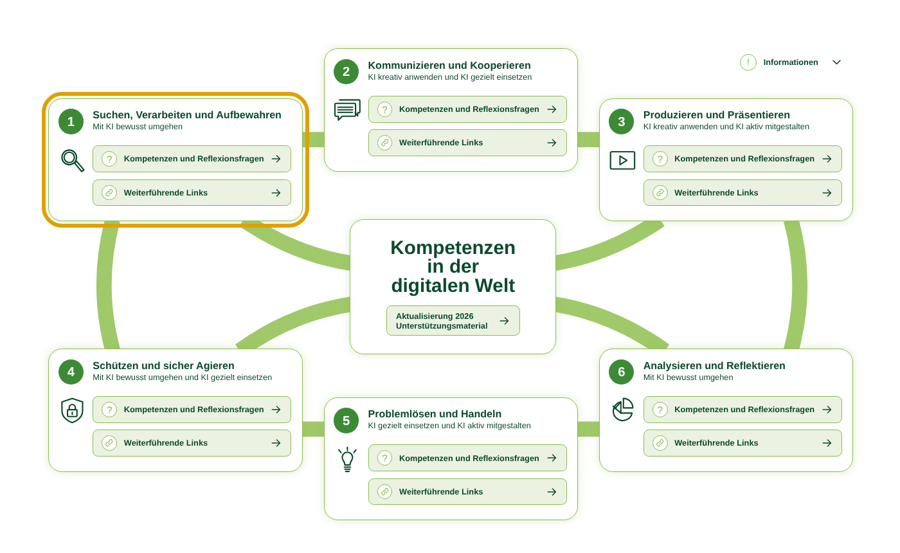
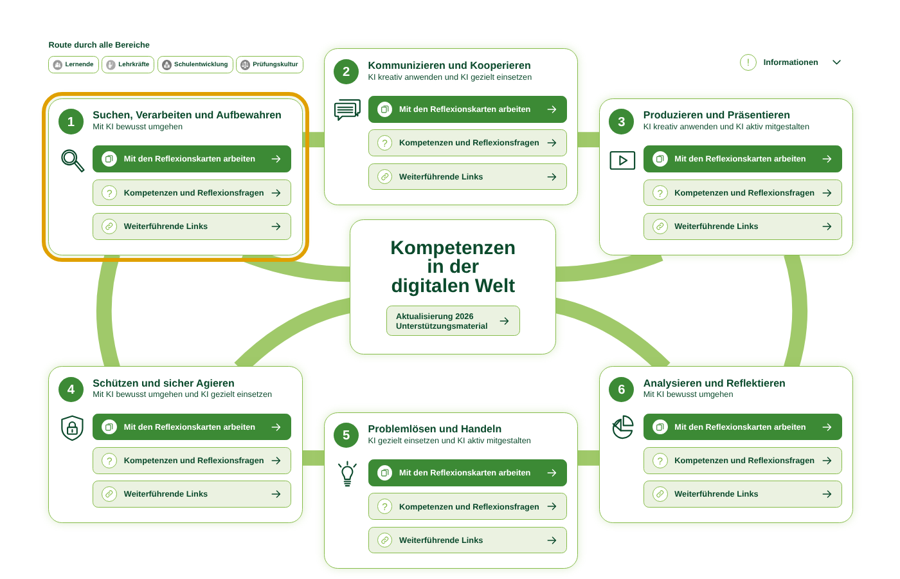
Inseln führen direkt in ihre Bereichs-App, Routen in die Routen-Apps
- dritter Button je Insel „Mit den Reflexionskarten arbeiten“
- Route starten → Routen-App, „Überblick lesen“ → route.html
- Anleitung um Routen ergänzt, Bilder aktualisiert

Claude-Session: https://claude.ai/code/session_012zyzsmAj4NRycghpwKmJHP

Changed region(s): [[0.0622, 0.0615, 0.9644, 0.9837], [0.0311, 0.0615, 0.3733, 0.4919], [0.8089, 0.0922, 0.9333, 0.123]]

diff --git a/index.html b/index.html
@@ -12,20 +12,21 @@
 <p class="wisch-hinweis">Tipp: Die Landkarte lässt sich seitlich verschieben.</p>
 <div class="karte-buehne">
 <div class="karte">
-  <svg class="stege" viewBox="0 0 2300 1360" aria-hidden="true">
+  <svg class="stege" viewBox="0 0 2300 1500" aria-hidden="true">
     <g class="ring">
-      <path d="M760 338H830M1480 338H1550M760 1095H830M1480 1095H1550"/>
-      <path d="M268 548Q222 718 268 890"/>
-      <path d="M2042 548Q2088 718 2042 890"/>
+      <path d="M760 338H830M1480 338H1550M760 1170H830M1480 1170H1550"/>
+      <path d="M268 636Q222 785 268 935"/>
+      <path d="M2042 636Q2088 785 2042 935"/>
     </g>
-    <path d="M610 548Q745 640 895 662"/>
-    <path d="M1700 548Q1565 640 1420 662"/>
-    <path d="M600 890Q735 792 895 768"/>
-    <path d="M1712 890Q1575 792 1420 768"/>
+    <path d="M610 636Q745 690 895 690"/>
+    <path d="M1700 636Q1565 690 1420 690"/>
+    <path d="M600 935Q735 800 895 770"/>
+    <path d="M1712 935Q1575 800 1420 770"/>
   </svg>
   <nav class="routen" aria-label="Routen durch alle Kompetenzbereiche">
     <p class="routen-kopf"><span class="routen-titel">Route durch alle Bereiche</span>
-      <a class="routen-start" href="route.html" hidden>Route starten<svg class="pfeil" viewBox="0 0 32 32" aria-hidden="true"><path d="M4 16h22M17 7l9 9-9 9" fill="none" stroke="currentColor" stroke-width="2.6" stroke-linecap="round" stroke-linejoin="round"/></svg></a></p>
+      <a class="routen-start" href="https://ingerfeldundlaube.github.io/KI-Kompetenzen/" hidden>Route starten<svg class="pfeil" viewBox="0 0 32 32" aria-hidden="true"><path d="M4 16h22M17 7l9 9-9 9" fill="none" stroke="currentColor" stroke-width="2.6" stroke-linecap="round" stroke-linejoin="round"/></svg></a>
+      <a class="routen-lesen" href="route.html" hidden>Überblick lesen</a></p>
     <div class="routen-knoepfe">
       <button type="button" data-route="lernende" data-farbe="#0565bd" data-name="Lernende" aria-pressed="false"><img src="bilder/perspektiven/lernende.png" alt="">Lernende</button>
       <button type="button" data-route="lehrkraefte" data-farbe="#f76e0b" data-name="Lehrkräfte" aria-pressed="false"><img src="bilder/perspektiven/lehrkraefte.png" alt="">Lehrkräfte</button>
@@ -48,6 +49,7 @@
     <h2 id="kb1"><span class="nur-screenreader">Kompetenzbereich 1: </span>Suchen, Verarbeiten und Aufbewahren<span class="unterzeile">Mit KI bewusst umgehen</span></h2>
     <span class="symbol"><svg viewBox="0 0 64 64" aria-hidden="true"><g fill="none" stroke="currentColor" stroke-width="3.2" stroke-linecap="round" stroke-linejoin="round"><circle cx="25" cy="25" r="17"/><circle cx="25" cy="25" r="12"/><path d="M37 38l5-4 17 20-5 4z"/></g></svg></span>
     <div class="knoepfe">
+      <a class="knopf knopf-app" href="https://ingerfeldundlaube.github.io/KI-Kompetenzen/kompetenzbereich-1/"><span class="kreis" aria-hidden="true"><svg viewBox="0 0 24 24" aria-hidden="true"><g fill="none" stroke="currentColor" stroke-width="2" stroke-linejoin="round"><rect x="3" y="6" width="13" height="15" rx="2"/><path d="M8 3h11a2 2 0 0 1 2 2v13"/></g></svg></span><span class="beschriftung">Mit den Reflexionskarten arbeiten</span><svg class="pfeil" viewBox="0 0 32 32" aria-hidden="true"><path d="M4 16h22M17 7l9 9-9 9" fill="none" stroke="currentColor" stroke-width="2.6" stroke-linecap="round" stroke-linejoin="round"/></svg></a>
       <a class="knopf" href="kompetenzbereich-1.html"><span class="kreis" aria-hidden="true">?</span><span class="beschriftung">Kompetenzen und Reflexionsfragen</span><svg class="pfeil" viewBox="0 0 32 32" aria-hidden="true"><path d="M4 16h22M17 7l9 9-9 9" fill="none" stroke="currentColor" stroke-width="2.6" stroke-linecap="round" stroke-linejoin="round"/></svg></a>
       <a class="knopf" href="links-1.html"><span class="kreis" aria-hidden="true"><svg viewBox="0 0 24 24" aria-hidden="true"><g fill="none" stroke="currentColor" stroke-width="2" stroke-linecap="round"><path d="M10 14a4.5 4.5 0 0 0 6.4 0l3-3a4.5 4.5 0 0 0-6.4-6.4l-1 1"/><path d="M14 10a4.5 4.5 0 0 0-6.4 0l-3 3a4.5 4.5 0 0 0 6.4 6.4l1-1"/></g></svg></span><span class="beschriftung">Weiterführende Links</span><svg class="pfeil" viewBox="0 0 32 32" aria-hidden="true"><path d="M4 16h22M17 7l9 9-9 9" fill="none" stroke="currentColor" stroke-width="2.6" stroke-linecap="round" stroke-linejoin="round"/></svg></a>
     </div>
@@ -57,6 +59,7 @@
     <h2 id="kb2"><span class="nur-screenreader">Kompetenzbereich 2: </span>Kommunizieren und Kooperieren<span class="unterzeile">KI kreativ anwenden und KI gezielt einsetzen</span></h2>
     <span class="symbol"><svg viewBox="0 0 64 64" aria-hidden="true"><g fill="none" stroke="currentColor" stroke-width="3.2" stroke-linecap="round" stroke-linejoin="round"><path d="M14 8h44a3 3 0 0 1 3 3v24a3 3 0 0 1-3 3h-2v7l-6-7"/><path d="M6 16h42a3 3 0 0 1 3 3v24a3 3 0 0 1-3 3H20l-9 9v-9H6a3 3 0 0 1-3-3V19a3 3 0 0 1 3-3z"/><path d="M10 25h34M10 31h34M10 37h34"/></g></svg></span>
     <div class="knoepfe">
+      <a class="knopf knopf-app" href="https://ingerfeldundlaube.github.io/KI-Kompetenzen/kompetenzbereich-2/"><span class="kreis" aria-hidden="true"><svg viewBox="0 0 24 24" aria-hidden="true"><g fill="none" stroke="currentColor" stroke-width="2" stroke-linejoin="round"><rect x="3" y="6" width="13" height="15" rx="2"/><path d="M8 3h11a2 2 0 0 1 2 2v13"/></g></svg></span><span class="beschriftung">Mit den Reflexionskarten arbeiten</span><svg class="pfeil" viewBox="0 0 32 32" aria-hidden="true"><path d="M4 16h22M17 7l9 9-9 9" fill="none" stroke="currentColor" stroke-width="2.6" stroke-linecap="round" stroke-linejoin="round"/></svg></a>
       <a class="knopf" href="kompetenzbereich-2.html"><span class="kreis" aria-hidden="true">?</span><span class="beschriftung">Kompetenzen und Reflexionsfragen</span><svg class="pfeil" viewBox="0 0 32 32" aria-hidden="true"><path d="M4 16h22M17 7l9 9-9 9" fill="none" stroke="currentColor" stroke-width="2.6" stroke-linecap="round" stroke-linejoin="round"/></svg></a>
       <a class="knopf" href="links-2.html"><span class="kreis" aria-hidden="true"><svg viewBox="0 0 24 24" aria-hidden="true"><g fill="none" stroke="currentColor" stroke-width="2" stroke-linecap="round"><path d="M10 14a4.5 4.5 0 0 0 6.4 0l3-3a4.5 4.5 0 0 0-6.4-6.4l-1 1"/><path d="M14 10a4.5 4.5 0 0 0-6.4 0l-3 3a4.5 4.5 0 0 0 6.4 6.4l1-1"/></g></svg></span><span class="beschriftung">Weiterführende Links</span><svg class="pfeil" viewBox="0 0 32 32" aria-hidden="true"><path d="M4 16h22M17 7l9 9-9 9" fill="none" stroke="currentColor" stroke-width="2.6" stroke-linecap="round" stroke-linejoin="round"/></svg></a>
     </div>
@@ -66,33 +69,37 @@
     <h2 id="kb3"><span class="nur-screenreader">Kompetenzbereich 3: </span>Produzieren und Präsentieren<span class="unterzeile">KI kreativ anwenden und KI aktiv mitgestalten</span></h2>
     <span class="symbol"><svg viewBox="0 0 64 64" aria-hidden="true"><g fill="none" stroke="currentColor" stroke-width="3.2" stroke-linecap="round" stroke-linejoin="round"><rect x="4" y="12" width="56" height="40" rx="3"/><path d="M26 22v20l16-10z"/></g></svg></span>
     <div class="knoepfe">
+      <a class="knopf knopf-app" href="https://ingerfeldundlaube.github.io/KI-Kompetenzen/kompetenzbereich-3/"><span class="kreis" aria-hidden="true"><svg viewBox="0 0 24 24" aria-hidden="true"><g fill="none" stroke="currentColor" stroke-width="2" stroke-linejoin="round"><rect x="3" y="6" width="13" height="15" rx="2"/><path d="M8 3h11a2 2 0 0 1 2 2v13"/></g></svg></span><span class="beschriftung">Mit den Reflexionskarten arbeiten</span><svg class="pfeil" viewBox="0 0 32 32" aria-hidden="true"><path d="M4 16h22M17 7l9 9-9 9" fill="none" stroke="currentColor" stroke-width="2.6" stroke-linecap="round" stroke-linejoin="round"/></svg></a>
       <a class="knopf" href="kompetenzbereich-3.html"><span class="kreis" aria-hidden="true">?</span><span class="beschriftung">Kompetenzen und Reflexionsfragen</span><svg class="pfeil" viewBox="0 0 32 32" aria-hidden="true"><path d="M4 16h22M17 7l9 9-9 9" fill="none" stroke="currentColor" stroke-width="2.6" stroke-linecap="round" stroke-linejoin="round"/></svg></a>
       <a class="knopf" href="links-3.html"><span class="kreis" aria-hidden="true"><svg viewBox="0 0 24 24" aria-hidden="true"><g fill="none" stroke="currentColor" stroke-width="2" stroke-linecap="round"><path d="M10 14a4.5 4.5 0 0 0 6.4 0l3-3a4.5 4.5 0 0 0-6.4-6.4l-1 1"/><path d="M14 10a4.5 4.5 0 0 0-6.4 0l-3 3a4.5 4.5 0 0 0 6.4 6.4l1-1"/></g></svg></span><span class="beschriftung">Weiterführende Links</span><svg class="pfeil" viewBox="0 0 32 32" aria-hidden="true"><path d="M4 16h22M17 7l9 9-9 9" fill="none" stroke="currentColor" stroke-width="2.6" stroke-linecap="round" stroke-linejoin="round"/></svg></a>
     </div>
   </section>
-  <section class="insel" style="--x:100;--y:885" aria-labelledby="kb4">
+  <section class="insel" style="--x:100;--y:930" aria-labelledby="kb4">
     <span class="nummer" aria-hidden="true">4</span>
     <h2 id="kb4"><span class="nur-screenreader">Kompetenzbereich 4: </span>Schützen und sicher Agieren<span class="unterzeile">Mit KI bewusst umgehen und KI gezielt einsetzen</span></h2>
     <span class="symbol"><svg viewBox="0 0 64 64" aria-hidden="true"><g fill="none" stroke="currentColor" stroke-width="3.2" stroke-linecap="round" stroke-linejoin="round"><path d="M32 4l24 8v20c0 14-11 23-24 28C19 55 8 46 8 32V12z"/><rect x="21" y="30" width="22" height="16" rx="2"/><path d="M25 30v-5a7 7 0 0 1 14 0v5M32 36v5"/></g></svg></span>
     <div class="knoepfe">
+      <a class="knopf knopf-app" href="https://ingerfeldundlaube.github.io/KI-Kompetenzen/kompetenzbereich-4/"><span class="kreis" aria-hidden="true"><svg viewBox="0 0 24 24" aria-hidden="true"><g fill="none" stroke="currentColor" stroke-width="2" stroke-linejoin="round"><rect x="3" y="6" width="13" height="15" rx="2"/><path d="M8 3h11a2 2 0 0 1 2 2v13"/></g></svg></span><span class="beschriftung">Mit den Reflexionskarten arbeiten</span><svg class="pfeil" viewBox="0 0 32 32" aria-hidden="true"><path d="M4 16h22M17 7l9 9-9 9" fill="none" stroke="currentColor" stroke-width="2.6" stroke-linecap="round" stroke-linejoin="round"/></svg></a>
       <a class="knopf" href="kompetenzbereich-4.html"><span class="kreis" aria-hidden="true">?</span><span class="beschriftung">Kompetenzen und Reflexionsfragen</span><svg class="pfeil" viewBox="0 0 32 32" aria-hidden="true"><path d="M4 16h22M17 7l9 9-9 9" fill="none" stroke="currentColor" stroke-width="2.6" stroke-linecap="round" stroke-linejoin="round"/></svg></a>
       <a class="knopf" href="links-4.html"><span class="kreis" aria-hidden="true"><svg viewBox="0 0 24 24" aria-hidden="true"><g fill="none" stroke="currentColor" stroke-width="2" stroke-linecap="round"><path d="M10 14a4.5 4.5 0 0 0 6.4 0l3-3a4.5 4.5 0 0 0-6.4-6.4l-1 1"/><path d="M14 10a4.5 4.5 0 0 0-6.4 0l-3 3a4.5 4.5 0 0 0 6.4 6.4l1-1"/></g></svg></span><span class="beschriftung">Weiterführende Links</span><svg class="pfeil" viewBox="0 0 32 32" aria-hidden="true"><path d="M4 16h22M17 7l9 9-9 9" fill="none" stroke="currentColor" stroke-width="2.6" stroke-linecap="round" stroke-linejoin="round"/></svg></a>
     </div>
   </section>
-  <section class="insel" style="--x:820;--y:1012" aria-labelledby="kb5">
+  <section class="insel" style="--x:820;--y:1050" aria-labelledby="kb5">
     <span class="nummer" aria-hidden="true">5</span>
     <h2 id="kb5"><span class="nur-screenreader">Kompetenzbereich 5: </span>Problemlösen und Handeln<span class="unterzeile">KI gezielt einsetzen und KI aktiv mitgestalten</span></h2>
     <span class="symbol"><svg viewBox="0 0 64 64" aria-hidden="true"><g fill="none" stroke="currentColor" stroke-width="3.2" stroke-linecap="round" stroke-linejoin="round"><path d="M32 4v7M12 10l5 6M52 10l-5 6"/><path d="M22 34a12 12 0 1 1 20 0c-3 4-4 7-4 11H26c0-4-1-7-4-11z"/><path d="M25 50h14M26 55h12M28 60h8"/></g></svg></span>
     <div class="knoepfe">
+      <a class="knopf knopf-app" href="https://ingerfeldundlaube.github.io/KI-Kompetenzen/kompetenzbereich-5/"><span class="kreis" aria-hidden="true"><svg viewBox="0 0 24 24" aria-hidden="true"><g fill="none" stroke="currentColor" stroke-width="2" stroke-linejoin="round"><rect x="3" y="6" width="13" height="15" rx="2"/><path d="M8 3h11a2 2 0 0 1 2 2v13"/></g></svg></span><span class="beschriftung">Mit den Reflexionskarten arbeiten</span><svg class="pfeil" viewBox="0 0 32 32" aria-hidden="true"><path d="M4 16h22M17 7l9 9-9 9" fill="none" stroke="currentColor" stroke-width="2.6" stroke-linecap="round" stroke-linejoin="round"/></svg></a>
       <a class="knopf" href="kompetenzbereich-5.html"><span class="kreis" aria-hidden="true">?</span><span class="beschriftung">Kompetenzen und Reflexionsfragen</span><svg class="pfeil" viewBox="0 0 32 32" aria-hidden="true"><path d="M4 16h22M17 7l9 9-9 9" fill="none" stroke="currentColor" stroke-width="2.6" stroke-linecap="round" stroke-linejoin="round"/></svg></a>
       <a class="knopf" href="links-5.html"><span class="kreis" aria-hidden="true"><svg viewBox="0 0 24 24" aria-hidden="true"><g fill="none" stroke="currentColor" stroke-width="2" stroke-linecap="round"><path d="M10 14a4.5 4.5 0 0 0 6.4 0l3-3a4.5 4.5 0 0 0-6.4-6.4l-1 1"/><path d="M14 10a4.5 4.5 0 0 0-6.4 0l-3 3a4.5 4.5 0 0 0 6.4 6.4l1-1"/></g></svg></span><span class="beschriftung">Weiterführende Links</span><svg class="pfeil" viewBox="0 0 32 32" aria-hidden="true"><path d="M4 16h22M17 7l9 9-9 9" fill="none" stroke="currentColor" stroke-width="2.6" stroke-linecap="round" stroke-linejoin="round"/></svg></a>
     </div>
   </section>
-  <section class="insel" style="--x:1540;--y:885" aria-labelledby="kb6">
+  <section class="insel" style="--x:1540;--y:930" aria-labelledby="kb6">
     <span class="nummer" aria-hidden="true">6</span>
     <h2 id="kb6"><span class="nur-screenreader">Kompetenzbereich 6: </span>Analysieren und Reflektieren<span class="unterzeile">Mit KI bewusst umgehen</span></h2>
     <span class="symbol"><svg viewBox="0 0 64 64" aria-hidden="true"><g fill="none" stroke="currentColor" stroke-width="3.2" stroke-linecap="round" stroke-linejoin="round"><path d="M28 12A22 22 0 1 0 54 38H28z"/><path d="M34 4a22 22 0 0 1 22 22H34z"/><path d="M28 12l-14 16M28 38L10 22"/></g></svg></span>
     <div class="knoepfe">
+      <a class="knopf knopf-app" href="https://ingerfeldundlaube.github.io/KI-Kompetenzen/kompetenzbereich-6/"><span class="kreis" aria-hidden="true"><svg viewBox="0 0 24 24" aria-hidden="true"><g fill="none" stroke="currentColor" stroke-width="2" stroke-linejoin="round"><rect x="3" y="6" width="13" height="15" rx="2"/><path d="M8 3h11a2 2 0 0 1 2 2v13"/></g></svg></span><span class="beschriftung">Mit den Reflexionskarten arbeiten</span><svg class="pfeil" viewBox="0 0 32 32" aria-hidden="true"><path d="M4 16h22M17 7l9 9-9 9" fill="none" stroke="currentColor" stroke-width="2.6" stroke-linecap="round" stroke-linejoin="round"/></svg></a>
       <a class="knopf" href="kompetenzbereich-6.html"><span class="kreis" aria-hidden="true">?</span><span class="beschriftung">Kompetenzen und Reflexionsfragen</span><svg class="pfeil" viewBox="0 0 32 32" aria-hidden="true"><path d="M4 16h22M17 7l9 9-9 9" fill="none" stroke="currentColor" stroke-width="2.6" stroke-linecap="round" stroke-linejoin="round"/></svg></a>
       <a class="knopf" href="links-6.html"><span class="kreis" aria-hidden="true"><svg viewBox="0 0 24 24" aria-hidden="true"><g fill="none" stroke="currentColor" stroke-width="2" stroke-linecap="round"><path d="M10 14a4.5 4.5 0 0 0 6.4 0l3-3a4.5 4.5 0 0 0-6.4-6.4l-1 1"/><path d="M14 10a4.5 4.5 0 0 0-6.4 0l-3 3a4.5 4.5 0 0 0 6.4 6.4l1-1"/></g></svg></span><span class="beschriftung">Weiterführende Links</span><svg class="pfeil" viewBox="0 0 32 32" aria-hidden="true"><path d="M4 16h22M17 7l9 9-9 9" fill="none" stroke="currentColor" stroke-width="2.6" stroke-linecap="round" stroke-linejoin="round"/></svg></a>
     </div>

diff --git a/kompetenzbereich-4.html b/kompetenzbereich-4.html
@@ -18,7 +18,12 @@
     <p class="unterzeile">Mit KI bewusst umgehen und KI gezielt einsetzen</p>
   </div>
 </header>
-
+<a class="app-einstieg" href="https://ingerfeldundlaube.github.io/KI-Kompetenzen/kompetenzbereich-4/">
+  <span class="kreis" aria-hidden="true"><svg viewBox="0 0 24 24" aria-hidden="true"><g fill="none" stroke="currentColor" stroke-width="2" stroke-linejoin="round"><rect x="3" y="6" width="13" height="15" rx="2"/><path d="M8 3h11a2 2 0 0 1 2 2v13"/></g></svg></span>
+  <span><strong>Mit den Reflexionskarten arbeiten</strong>
+  <span class="zusatz">Alle 4 Karten des Kompetenzbereichs 4: Selbstverortung, Radarprofil, Vereinbarungen, Weiterarbeit mit AIS.chat</span></span>
+  <svg class="pfeil" viewBox="0 0 32 32" aria-hidden="true"><path d="M4 16h22M17 7l9 9-9 9" fill="none" stroke="currentColor" stroke-width="2.6" stroke-linecap="round" stroke-linejoin="round"/></svg>
+</a>
 
 <section class="teilbereich" aria-labelledby="t4-1">
   <h2 id="t4-1"><span class="nr">4.1</span>Sicher in digitalen Umgebungen agieren</h2>
@@ -61,7 +66,7 @@
   </div>
 </section>
 <ul class="kachel-liste">
-  <li><a class="kachel" href="https://ingerfeldundlaube.github.io/KI-Kompetenzen/"><span class="kreis"><svg viewBox="0 0 24 24" aria-hidden="true"><g fill="none" stroke="currentColor" stroke-width="2" stroke-linejoin="round"><rect x="3" y="6" width="13" height="15" rx="2"/><path d="M8 3h11a2 2 0 0 1 2 2v13"/></g></svg></span><span><strong>Mit den Reflexionskarten weiterarbeiten</strong><span class="zusatz">Zu jedem Teilbereich: Kurzbeschreibung, Entwicklungsraster und Reflexionsanlässe</span></span><svg class="pfeil" viewBox="0 0 32 32" aria-hidden="true"><path d="M4 16h22M17 7l9 9-9 9" fill="none" stroke="currentColor" stroke-width="2.6" stroke-linecap="round" stroke-linejoin="round"/></svg></a></li>
+  <li><a class="kachel" href="https://ingerfeldundlaube.github.io/KI-Kompetenzen/kompetenzbereich-4/"><span class="kreis"><svg viewBox="0 0 24 24" aria-hidden="true"><g fill="none" stroke="currentColor" stroke-width="2" stroke-linejoin="round"><rect x="3" y="6" width="13" height="15" rx="2"/><path d="M8 3h11a2 2 0 0 1 2 2v13"/></g></svg></span><span><strong>Mit den Reflexionskarten weiterarbeiten</strong><span class="zusatz">Zu jedem Teilbereich: Kurzbeschreibung, Entwicklungsraster und Reflexionsanlässe</span></span><svg class="pfeil" viewBox="0 0 32 32" aria-hidden="true"><path d="M4 16h22M17 7l9 9-9 9" fill="none" stroke="currentColor" stroke-width="2.6" stroke-linecap="round" stroke-linejoin="round"/></svg></a></li>
   <li><a class="kachel" href="links-4.html"><span class="kreis"><svg viewBox="0 0 24 24" aria-hidden="true"><g fill="none" stroke="currentColor" stroke-width="2" stroke-linecap="round"><path d="M10 14a4.5 4.5 0 0 0 6.4 0l3-3a4.5 4.5 0 0 0-6.4-6.4l-1 1"/><path d="M14 10a4.5 4.5 0 0 0-6.4 0l-3 3a4.5 4.5 0 0 0 6.4 6.4l1-1"/></g></svg></span><span><strong>Weiterführende Links</strong><span class="zusatz">zum Kompetenzbereich 4</span></span><svg class="pfeil" viewBox="0 0 32 32" aria-hidden="true"><path d="M4 16h22M17 7l9 9-9 9" fill="none" stroke="currentColor" stroke-width="2.6" stroke-linecap="round" stroke-linejoin="round"/></svg></a></li>
 </ul>
 <nav class="blaettern" aria-label="Kompetenzbereiche"><a href="kompetenzbereich-3.html">← Bereich 3</a><a href="kompetenzbereich-5.html">Bereich 5 →</a></nav>

diff --git a/kompetenzbereich-5.html b/kompetenzbereich-5.html
@@ -18,7 +18,12 @@
     <p class="unterzeile">KI gezielt einsetzen und KI aktiv mitgestalten</p>
   </div>
 </header>
-
+<a class="app-einstieg" href="https://ingerfeldundlaube.github.io/KI-Kompetenzen/kompetenzbereich-5/">
+  <span class="kreis" aria-hidden="true"><svg viewBox="0 0 24 24" aria-hidden="true"><g fill="none" stroke="currentColor" stroke-width="2" stroke-linejoin="round"><rect x="3" y="6" width="13" height="15" rx="2"/><path d="M8 3h11a2 2 0 0 1 2 2v13"/></g></svg></span>
+  <span><strong>Mit den Reflexionskarten arbeiten</strong>
+  <span class="zusatz">Alle 5 Karten des Kompetenzbereichs 5: Selbstverortung, Radarprofil, Vereinbarungen, Weiterarbeit mit AIS.chat</span></span>
+  <svg class="pfeil" viewBox="0 0 32 32" aria-hidden="true"><path d="M4 16h22M17 7l9 9-9 9" fill="none" stroke="currentColor" stroke-width="2.6" stroke-linecap="round" stroke-linejoin="round"/></svg>
+</a>
 
 <section class="teilbereich" aria-labelledby="t5-1">
   <h2 id="t5-1"><span class="nr">5.1</span>Technische Probleme lösen</h2>
@@ -71,7 +76,7 @@
   </div>
 </section>
 <ul class="kachel-liste">
-  <li><a class="kachel" href="https://ingerfeldundlaube.github.io/KI-Kompetenzen/"><span class="kreis"><svg viewBox="0 0 24 24" aria-hidden="true"><g fill="none" stroke="currentColor" stroke-width="2" stroke-linejoin="round"><rect x="3" y="6" width="13" height="15" rx="2"/><path d="M8 3h11a2 2 0 0 1 2 2v13"/></g></svg></span><span><strong>Mit den Reflexionskarten weiterarbeiten</strong><span class="zusatz">Zu jedem Teilbereich: Kurzbeschreibung, Entwicklungsraster und Reflexionsanlässe</span></span><svg class="pfeil" viewBox="0 0 32 32" aria-hidden="true"><path d="M4 16h22M17 7l9 9-9 9" fill="none" stroke="currentColor" stroke-width="2.6" stroke-linecap="round" stroke-linejoin="round"/></svg></a></li>
+  <li><a class="kachel" href="https://ingerfeldundlaube.github.io/KI-Kompetenzen/kompetenzbereich-5/"><span class="kreis"><svg viewBox="0 0 24 24" aria-hidden="true"><g fill="none" stroke="currentColor" stroke-width="2" stroke-linejoin="round"><rect x="3" y="6" width="13" height="15" rx="2"/><path d="M8 3h11a2 2 0 0 1 2 2v13"/></g></svg></span><span><strong>Mit den Reflexionskarten weiterarbeiten</strong><span class="zusatz">Zu jedem Teilbereich: Kurzbeschreibung, Entwicklungsraster und Reflexionsanlässe</span></span><svg class="pfeil" viewBox="0 0 32 32" aria-hidden="true"><path d="M4 16h22M17 7l9 9-9 9" fill="none" stroke="currentColor" stroke-width="2.6" stroke-linecap="round" stroke-linejoin="round"/></svg></a></li>
   <li><a class="kachel" href="links-5.html"><span class="kreis"><svg viewBox="0 0 24 24" aria-hidden="true"><g fill="none" stroke="currentColor" stroke-width="2" stroke-linecap="round"><path d="M10 14a4.5 4.5 0 0 0 6.4 0l3-3a4.5 4.5 0 0 0-6.4-6.4l-1 1"/><path d="M14 10a4.5 4.5 0 0 0-6.4 0l-3 3a4.5 4.5 0 0 0 6.4 6.4l1-1"/></g></svg></span><span><strong>Weiterführende Links</strong><span class="zusatz">zum Kompetenzbereich 5</span></span><svg class="pfeil" viewBox="0 0 32 32" aria-hidden="true"><path d="M4 16h22M17 7l9 9-9 9" fill="none" stroke="currentColor" stroke-width="2.6" stroke-linecap="round" stroke-linejoin="round"/></svg></a></li>
 </ul>
 <nav class="blaettern" aria-label="Kompetenzbereiche"><a href="kompetenzbereich-4.html">← Bereich 4</a><a href="kompetenzbereich-6.html">Bereich 6 →</a></nav>

diff --git a/kompetenzbereich-2.html b/kompetenzbereich-2.html
@@ -18,7 +18,12 @@
     <p class="unterzeile">KI kreativ anwenden und KI gezielt einsetzen</p>
   </div>
 </header>
-
+<a class="app-einstieg" href="https://ingerfeldundlaube.github.io/KI-Kompetenzen/kompetenzbereich-2/">
+  <span class="kreis" aria-hidden="true"><svg viewBox="0 0 24 24" aria-hidden="true"><g fill="none" stroke="currentColor" stroke-width="2" stroke-linejoin="round"><rect x="3" y="6" width="13" height="15" rx="2"/><path d="M8 3h11a2 2 0 0 1 2 2v13"/></g></svg></span>
+  <span><strong>Mit den Reflexionskarten arbeiten</strong>
+  <span class="zusatz">Alle 5 Karten des Kompetenzbereichs 2: Selbstverortung, Radarprofil, Vereinbarungen, Weiterarbeit mit AIS.chat</span></span>
+  <svg class="pfeil" viewBox="0 0 32 32" aria-hidden="true"><path d="M4 16h22M17 7l9 9-9 9" fill="none" stroke="currentColor" stroke-width="2.6" stroke-linecap="round" stroke-linejoin="round"/></svg>
+</a>
 
 <section class="teilbereich" aria-labelledby="t2-1">
   <h2 id="t2-1"><span class="nr">2.1</span>Interagieren</h2>
@@ -71,7 +76,7 @@
   </div>
 </section>
 <ul class="kachel-liste">
-  <li><a class="kachel" href="https://ingerfeldundlaube.github.io/KI-Kompetenzen/"><span class="kreis"><svg viewBox="0 0 24 24" aria-hidden="true"><g fill="none" stroke="currentColor" stroke-width="2" stroke-linejoin="round"><rect x="3" y="6" width="13" height="15" rx="2"/><path d="M8 3h11a2 2 0 0 1 2 2v13"/></g></svg></span><span><strong>Mit den Reflexionskarten weiterarbeiten</strong><span class="zusatz">Zu jedem Teilbereich: Kurzbeschreibung, Entwicklungsraster und Reflexionsanlässe</span></span><svg class="pfeil" viewBox="0 0 32 32" aria-hidden="true"><path d="M4 16h22M17 7l9 9-9 9" fill="none" stroke="currentColor" stroke-width="2.6" stroke-linecap="round" stroke-linejoin="round"/></svg></a></li>
+  <li><a class="kachel" href="https://ingerfeldundlaube.github.io/KI-Kompetenzen/kompetenzbereich-2/"><span class="kreis"><svg viewBox="0 0 24 24" aria-hidden="true"><g fill="none" stroke="currentColor" stroke-width="2" stroke-linejoin="round"><rect x="3" y="6" width="13" height="15" rx="2"/><path d="M8 3h11a2 2 0 0 1 2 2v13"/></g></svg></span><span><strong>Mit den Reflexionskarten weiterarbeiten</strong><span class="zusatz">Zu jedem Teilbereich: Kurzbeschreibung, Entwicklungsraster und Reflexionsanlässe</span></span><svg class="pfeil" viewBox="0 0 32 32" aria-hidden="true"><path d="M4 16h22M17 7l9 9-9 9" fill="none" stroke="currentColor" stroke-width="2.6" stroke-linecap="round" stroke-linejoin="round"/></svg></a></li>
   <li><a class="kachel" href="links-2.html"><span class="kreis"><svg viewBox="0 0 24 24" aria-hidden="true"><g fill="none" stroke="currentColor" stroke-width="2" stroke-linecap="round"><path d="M10 14a4.5 4.5 0 0 0 6.4 0l3-3a4.5 4.5 0 0 0-6.4-6.4l-1 1"/><path d="M14 10a4.5 4.5 0 0 0-6.4 0l-3 3a4.5 4.5 0 0 0 6.4 6.4l1-1"/></g></svg></span><span><strong>Weiterführende Links</strong><span class="zusatz">zum Kompetenzbereich 2</span></span><svg class="pfeil" viewBox="0 0 32 32" aria-hidden="true"><path d="M4 16h22M17 7l9 9-9 9" fill="none" stroke="currentColor" stroke-width="2.6" stroke-linecap="round" stroke-linejoin="round"/></svg></a></li>
 </ul>
 <nav class="blaettern" aria-label="Kompetenzbereiche"><a href="kompetenzbereich-1.html">← Bereich 1</a><a href="kompetenzbereich-3.html">Bereich 3 →</a></nav>

diff --git a/kompetenzbereich-6.html b/kompetenzbereich-6.html
@@ -18,7 +18,12 @@
     <p class="unterzeile">Mit KI bewusst umgehen</p>
   </div>
 </header>
-
+<a class="app-einstieg" href="https://ingerfeldundlaube.github.io/KI-Kompetenzen/kompetenzbereich-6/">
+  <span class="kreis" aria-hidden="true"><svg viewBox="0 0 24 24" aria-hidden="true"><g fill="none" stroke="currentColor" stroke-width="2" stroke-linejoin="round"><rect x="3" y="6" width="13" height="15" rx="2"/><path d="M8 3h11a2 2 0 0 1 2 2v13"/></g></svg></span>
+  <span><strong>Mit den Reflexionskarten arbeiten</strong>
+  <span class="zusatz">Alle 2 Karten des Kompetenzbereichs 6: Selbstverortung, Radarprofil, Vereinbarungen, Weiterarbeit mit AIS.chat</span></span>
+  <svg class="pfeil" viewBox="0 0 32 32" aria-hidden="true"><path d="M4 16h22M17 7l9 9-9 9" fill="none" stroke="currentColor" stroke-width="2.6" stroke-linecap="round" stroke-linejoin="round"/></svg>
+</a>
 
 <section class="teilbereich" aria-labelledby="t6-1">
   <h2 id="t6-1"><span class="nr">6.1</span>Digitale Medien und Medienlogiken analysieren und bewerten</h2>
@@ -41,7 +46,7 @@
   </div>
 </section>
 <ul class="kachel-liste">
-  <li><a class="kachel" href="https://ingerfeldundlaube.github.io/KI-Kompetenzen/"><span class="kreis"><svg viewBox="0 0 24 24" aria-hidden="true"><g fill="none" stroke="currentColor" stroke-width="2" stroke-linejoin="round"><rect x="3" y="6" width="13" height="15" rx="2"/><path d="M8 3h11a2 2 0 0 1 2 2v13"/></g></svg></span><span><strong>Mit den Reflexionskarten weiterarbeiten</strong><span class="zusatz">Zu jedem Teilbereich: Kurzbeschreibung, Entwicklungsraster und Reflexionsanlässe</span></span><svg class="pfeil" viewBox="0 0 32 32" aria-hidden="true"><path d="M4 16h22M17 7l9 9-9 9" fill="none" stroke="currentColor" stroke-width="2.6" stroke-linecap="round" stroke-linejoin="round"/></svg></a></li>
+  <li><a class="kachel" href="https://ingerfeldundlaube.github.io/KI-Kompetenzen/kompetenzbereich-6/"><span class="kreis"><svg viewBox="0 0 24 24" aria-hidden="true"><g fill="none" stroke="currentColor" stroke-width="2" stroke-linejoin="round"><rect x="3" y="6" width="13" height="15" rx="2"/><path d="M8 3h11a2 2 0 0 1 2 2v13"/></g></svg></span><span><strong>Mit den Reflexionskarten weiterarbeiten</strong><span class="zusatz">Zu jedem Teilbereich: Kurzbeschreibung, Entwicklungsraster und Reflexionsanlässe</span></span><svg class="pfeil" viewBox="0 0 32 32" aria-hidden="true"><path d="M4 16h22M17 7l9 9-9 9" fill="none" stroke="currentColor" stroke-width="2.6" stroke-linecap="round" stroke-linejoin="round"/></svg></a></li>
   <li><a class="kachel" href="links-6.html"><span class="kreis"><svg viewBox="0 0 24 24" aria-hidden="true"><g fill="none" stroke="currentColor" stroke-width="2" stroke-linecap="round"><path d="M10 14a4.5 4.5 0 0 0 6.4 0l3-3a4.5 4.5 0 0 0-6.4-6.4l-1 1"/><path d="M14 10a4.5 4.5 0 0 0-6.4 0l-3 3a4.5 4.5 0 0 0 6.4 6.4l1-1"/></g></svg></span><span><strong>Weiterführende Links</strong><span class="zusatz">zum Kompetenzbereich 6</span></span><svg class="pfeil" viewBox="0 0 32 32" aria-hidden="true"><path d="M4 16h22M17 7l9 9-9 9" fill="none" stroke="currentColor" stroke-width="2.6" stroke-linecap="round" stroke-linejoin="round"/></svg></a></li>
 </ul>
 <nav class="blaettern" aria-label="Kompetenzbereiche"><a href="kompetenzbereich-5.html">← Bereich 5</a><span></span></nav>

diff --git a/kompetenzbereich-1.html b/kompetenzbereich-1.html
@@ -18,7 +18,12 @@
     <p class="unterzeile">Mit KI bewusst umgehen</p>
   </div>
 </header>
-
+<a class="app-einstieg" href="https://ingerfeldundlaube.github.io/KI-Kompetenzen/kompetenzbereich-1/">
+  <span class="kreis" aria-hidden="true"><svg viewBox="0 0 24 24" aria-hidden="true"><g fill="none" stroke="currentColor" stroke-width="2" stroke-linejoin="round"><rect x="3" y="6" width="13" height="15" rx="2"/><path d="M8 3h11a2 2 0 0 1 2 2v13"/></g></svg></span>
+  <span><strong>Mit den Reflexionskarten arbeiten</strong>
+  <span class="zusatz">Alle 3 Karten des Kompetenzbereichs 1: Selbstverortung, Radarprofil, Vereinbarungen, Weiterarbeit mit AIS.chat</span></span>
+  <svg class="pfeil" viewBox="0 0 32 32" aria-hidden="true"><path d="M4 16h22M17 7l9 9-9 9" fill="none" stroke="currentColor" stroke-width="2.6" stroke-linecap="round" stroke-linejoin="round"/></svg>
+</a>
 
 <section class="teilbereich" aria-labelledby="t1-1">
   <h2 id="t1-1"><span class="nr">1.1</span>Suchen und Filtern</h2>
@@ -51,7 +56,7 @@
   </div>
 </section>
 <ul class="kachel-liste">
-  <li><a class="kachel" href="https://ingerfeldundlaube.github.io/KI-Kompetenzen/"><span class="kreis"><svg viewBox="0 0 24 24" aria-hidden="true"><g fill="none" stroke="currentColor" stroke-width="2" stroke-linejoin="round"><rect x="3" y="6" width="13" height="15" rx="2"/><path d="M8 3h11a2 2 0 0 1 2 2v13"/></g></svg></span><span><strong>Mit den Reflexionskarten weiterarbeiten</strong><span class="zusatz">Zu jedem Teilbereich: Kurzbeschreibung, Entwicklungsraster und Reflexionsanlässe</span></span><svg class="pfeil" viewBox="0 0 32 32" aria-hidden="true"><path d="M4 16h22M17 7l9 9-9 9" fill="none" stroke="currentColor" stroke-width="2.6" stroke-linecap="round" stroke-linejoin="round"/></svg></a></li>
+  <li><a class="kachel" href="https://ingerfeldundlaube.github.io/KI-Kompetenzen/kompetenzbereich-1/"><span class="kreis"><svg viewBox="0 0 24 24" aria-hidden="true"><g fill="none" stroke="currentColor" stroke-width="2" stroke-linejoin="round"><rect x="3" y="6" width="13" height="15" rx="2"/><path d="M8 3h11a2 2 0 0 1 2 2v13"/></g></svg></span><span><strong>Mit den Reflexionskarten weiterarbeiten</strong><span class="zusatz">Zu jedem Teilbereich: Kurzbeschreibung, Entwicklungsraster und Reflexionsanlässe</span></span><svg class="pfeil" viewBox="0 0 32 32" aria-hidden="true"><path d="M4 16h22M17 7l9 9-9 9" fill="none" stroke="currentColor" stroke-width="2.6" stroke-linecap="round" stroke-linejoin="round"/></svg></a></li>
   <li><a class="kachel" href="links-1.html"><span class="kreis"><svg viewBox="0 0 24 24" aria-hidden="true"><g fill="none" stroke="currentColor" stroke-width="2" stroke-linecap="round"><path d="M10 14a4.5 4.5 0 0 0 6.4 0l3-3a4.5 4.5 0 0 0-6.4-6.4l-1 1"/><path d="M14 10a4.5 4.5 0 0 0-6.4 0l-3 3a4.5 4.5 0 0 0 6.4 6.4l1-1"/></g></svg></span><span><strong>Weiterführende Links</strong><span class="zusatz">zum Kompetenzbereich 1</span></span><svg class="pfeil" viewBox="0 0 32 32" aria-hidden="true"><path d="M4 16h22M17 7l9 9-9 9" fill="none" stroke="currentColor" stroke-width="2.6" stroke-linecap="round" stroke-linejoin="round"/></svg></a></li>
 </ul>
 <nav class="blaettern" aria-label="Kompetenzbereiche"><span></span><a href="kompetenzbereich-2.html">Bereich 2 →</a></nav>

diff --git a/anleitung.html b/anleitung.html
@@ -42,7 +42,7 @@
 <ol class="schritte">
   <li class="schritt">
     <img src="bilder/schritt-1.png" alt="" loading="lazy">
-    <div><span class="schritt-nr">1</span><h2>Kompetenzbereich wählen</h2><p>Die Landkarte zeigt die sechs Kompetenzbereiche als Inseln. Jede Insel nennt den Bereich und die zugeordneten Perspektiven des AI Literacy Frameworks.</p></div>
+    <div><span class="schritt-nr">1</span><h2>Kompetenzbereich wählen</h2><p>Die Landkarte zeigt die sechs Kompetenzbereiche als Inseln. „Mit den Reflexionskarten arbeiten“ öffnet direkt die Karten dieses Bereichs zur Selbstverortung, Reflexion und Vereinbarung.</p></div>
   </li>
   <li class="schritt">
     <img src="bilder/schritt-2.png" alt="" loading="lazy">
@@ -57,8 +57,12 @@
     <div><span class="schritt-nr">4</span><h2>Weiterführende Links nutzen</h2><p>Unter „Weiterführende Links“ finden Sie ausgewählte Angebote zur Weiterarbeit im jeweiligen Kompetenzbereich.</p></div>
   </li>
   <li class="schritt">
+    <img src="bilder/schritt-6.png" alt="" loading="lazy">
+    <div><span class="schritt-nr">5</span><h2>Eine Route durch alle Bereiche wählen</h2><p>Oben links wählen Sie eine Perspektive: Lernende, Lehrkräfte, Schul- und Unterrichtsentwicklung oder Prüfungskultur. Die Wege färben sich, „Route starten“ öffnet alle Reflexionskarten aus genau dieser Perspektive.</p></div>
+  </li>
+  <li class="schritt">
     <img src="bilder/schritt-5.png" alt="" loading="lazy">
-    <div><span class="schritt-nr">5</span><h2>Material in der Mitte finden</h2><p>In der Mitte der Landkarte sind alle Materialien gebündelt: der Kompetenzrahmen, die Reflexionskarten als Web-App und als Druckfassung.</p></div>
+    <div><span class="schritt-nr">6</span><h2>Material in der Mitte finden</h2><p>In der Mitte der Landkarte sind alle Materialien gebündelt: der Kompetenzrahmen, die Reflexionskarten als Web-App und als Druckfassung.</p></div>
   </li>
 </ol>
 </main>

diff --git a/routen.js b/routen.js
@@ -1,10 +1,12 @@
 /* Landkarte: Route wählen.
-   Ein Klick auf eine Perspektive färbt den Rundweg zwischen den Inseln in ihrer Farbe
-   und zeigt „Route starten“. Ein zweiter Klick (oder Esc) macht die Karte wieder grün. */
+   Ein Klick auf eine Perspektive färbt die Wege zwischen den Inseln in ihrer Farbe
+   und zeigt „Route starten“ (Routen-App) und „Überblick lesen“ (route.html). Ein zweiter Klick (oder Esc) macht die Karte wieder grün. */
 (function () {
   var karte = document.querySelector('.karte');
   var knoepfe = document.querySelectorAll('.routen-knoepfe button');
   var start = document.querySelector('.routen-start');
+  var lesen = document.querySelector('.routen-lesen');
+  var APP = start.getAttribute('href');
   var titel = document.querySelector('.routen-titel');
   if (!karte || !knoepfe.length) return;
 
@@ -13,12 +15,15 @@
     if (knopf) {
       karte.setAttribute('data-route', knopf.dataset.route);
       karte.style.setProperty('--routenfarbe', knopf.dataset.farbe);
-      start.href = 'route.html#' + knopf.dataset.route;
+      start.href = APP + 'route-' + knopf.dataset.route + '/';
       start.hidden = false;
+      lesen.href = 'route.html#' + knopf.dataset.route;
+      lesen.hidden = false;
       titel.textContent = 'Route: ' + knopf.dataset.name;
     } else {
       karte.removeAttribute('data-route');
       start.hidden = true;
+      lesen.hidden = true;
       titel.textContent = 'Route durch alle Bereiche';
     }
   }

diff --git a/style.css b/style.css
@@ -51,7 +51,7 @@ a { color: var(--gruen-dunkel); }
   --u: calc(100cqw / 2300);
   position: relative;
   width: 100%;
-  aspect-ratio: 2300 / 1360;
+  aspect-ratio: 2300 / 1500;
 }
 
 .stege {
@@ -66,7 +66,7 @@ a { color: var(--gruen-dunkel); }
   left:  calc(var(--x) * var(--u));
   top:   calc(var(--y) * var(--u));
   width: calc(665 * var(--u));
-  height: calc(322 * var(--u));
+  height: calc(410 * var(--u));
   background: var(--weiss);
   border: calc(3 * var(--u)) solid var(--gruen-rand);
   border-radius: calc(36 * var(--u));
@@ -538,3 +538,10 @@ h2.abschnitt { color: var(--gruen-dunkel); font-size: 22px; margin: 36px 0 14px;
 .route-ziel { padding: 16px 20px; background: var(--gruen-hell); border-radius: 14px; }
 .route-quelle { font-size: 14px; color: #4b6152; }
 @media (max-width: 700px) { .route-raster { grid-template-columns: 1fr; } }
+
+/* Dritter Button je Insel: direkt in die Bereichs-App */
+.knopf-app { background: var(--gruen-mittel); border-color: var(--gruen-mittel); color: var(--weiss); }
+.knopf-app:hover, .knopf-app:focus-visible { background: var(--gruen-dunkel); }
+.knopf-app .kreis { color: var(--gruen-mittel); border-color: var(--weiss); }
+.routen-lesen { font-size: calc(18 * var(--u)); font-weight: 700; color: var(--gruen-dunkel); }
+.routen-lesen[hidden] { display: none; }
